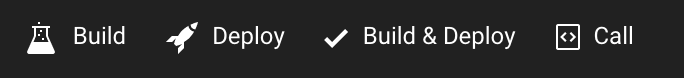
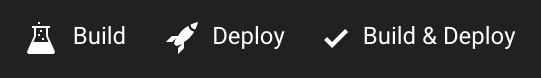
Change to reflect studio changes

Changed region(s): [[0.0296, 0.2821, 0.976, 0.6923], [0.0296, 0.2821, 0.0887, 0.3077]]

diff --git a/docs/guide/README.md b/docs/guide/README.md
@@ -17,14 +17,9 @@ This guide's purpose is to get you started with Icetea blockchain programming. A
 We will use some available online tools.
 
 1. [Icetea Studio (https://studio.icetea.io)](https://studio.icetea.io)
-2. [Icetea DevTools (https://devtools.icetea.io)](https://devtools.icetea.io)
-3. [CodePen (https://codepen.io)](https://codepen.io)
+2. [CodePen (https://codepen.io)](https://codepen.io)
 
 Later, when developing more complex dApps, more advanced tools will be introduced.
-
-### Preparation
-
-Go to [Icetea DevTools Wallet](https://devtools.icetea.io/wallet.html) and click _Generate Bank Account_ button. This account is used for testing later on.
 
 ## Create the first smart contract
 
@@ -144,17 +139,10 @@ Take a look at the Icetea Studio toobar.
 - __Build__: compile the contract. It will output to `out/mycontract.js` file upon success. _If you change the file content, don't forget to save (Ctrl/Cmd + S) the file before compiling._
 - __Deploy__: deploy the compiled contract to Icetea testnet
 - __Build & Deploy__: compile first, then deploy if compiling succeeded
-- __Call__: call deployed contracts. This will open the [_Call Contract_ page on DevTools](https://devtools.icetea.io/contract.html) because Icetea Studio does not has this feature built-in yet. 
 
-You can also go to _Call Contract_ page by holding Ctrl/Cmd and click on the _Test URL_ link in the Icetea Studio Output panel.
+After deployment, you can call the contract's methods using _Call Contracts_ panel on the right-hand side of the studio.
 
-<img src='./deploy.png' style='width:806px;box-shadow:0 0 3px 0 rgba(0,0,0,.2)' alt='Deployment Output'>
-
-This is what the _Call Contract_ screen looks like.
-
-<img src='./call.png' style='width:629px;box-shadow:0 0 3px 0 rgba(0,0,0,.2)' alt='DevTools Call Contract'>
-
-Select the contract method (function) you want to call from the dropdown list, supply the parameters if needed, then hit the _Call/Send_ button. The call's result will appear on the lower section of the page.
+<img src='./call.png' style='width:629px;box-shadow:0 0 3px 0 rgba(0,0,0,.2)' alt='Call Contracts'>
 
 ::: tip
 Each deployed contract is given an address in form of `teat1...`. You can call it anytime later if you know the address. Find the address in the Icetea Studio's Output panel after each time you deploy.
@@ -254,7 +242,7 @@ The magic `;` module is in fact an alias to `@iceteachain/utils/utils` package. 
 > 1 standard unit = 10<sup>6</sup> micro unit
 :::
 
-Voala! Try build and deploy the contract and play around with it on [DevTools](https://devtools.icetea.io).
+Voala! Try build and deploy the contract and play around with it a bit.
 
 ## Access to blockchain data
 
